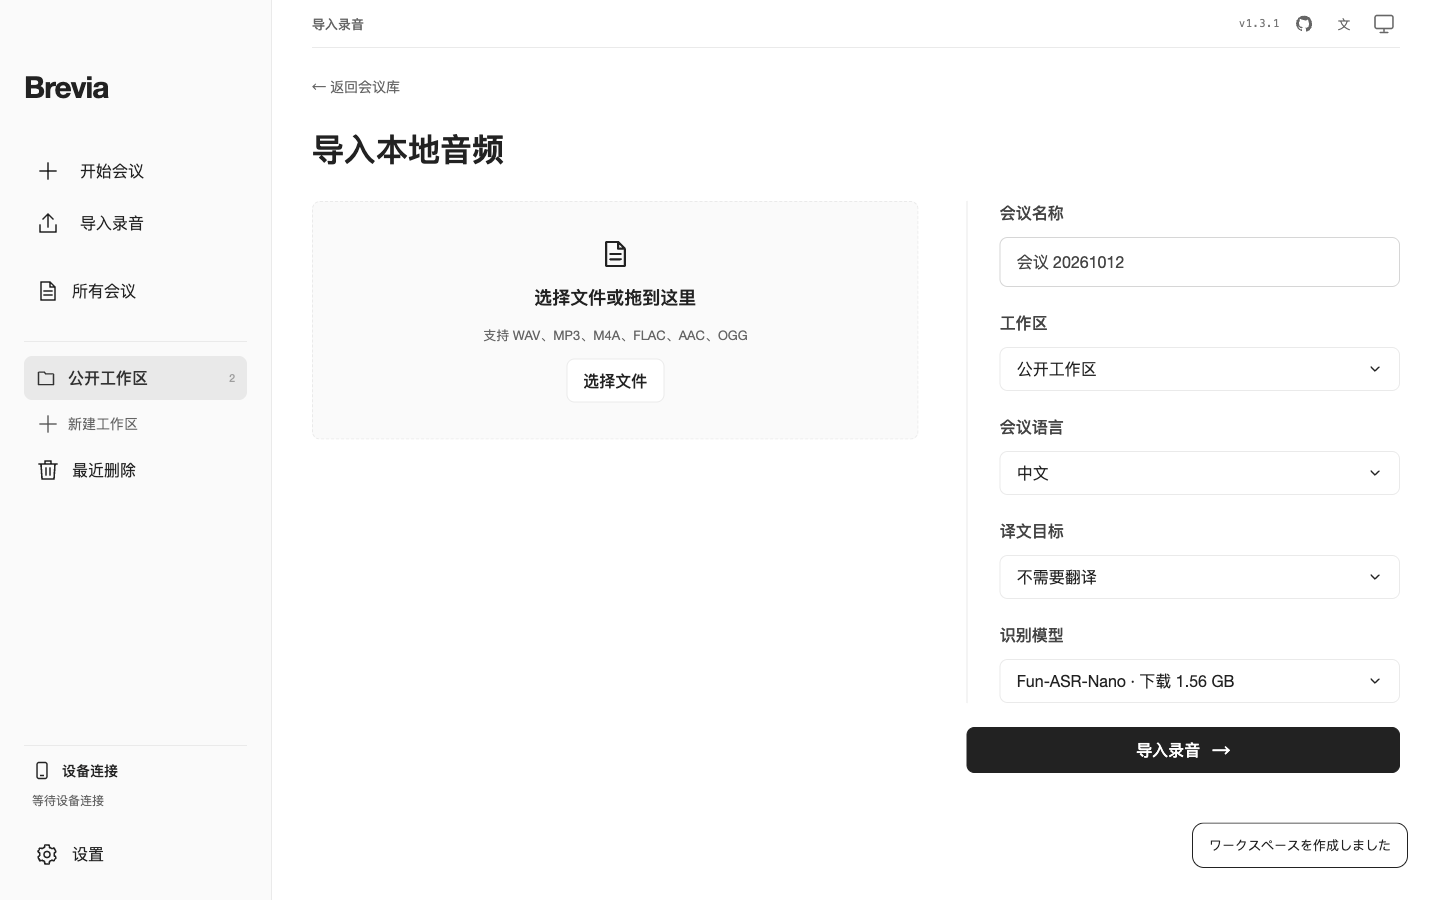
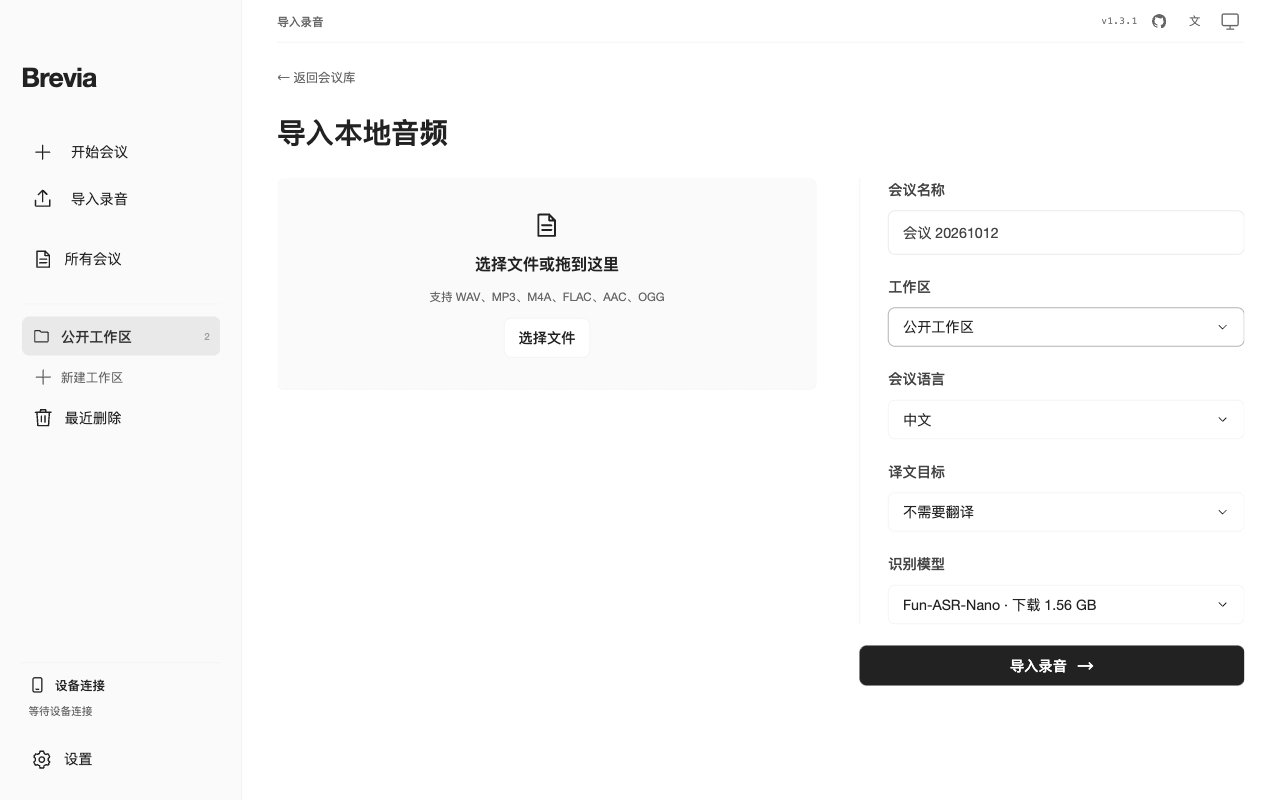
fix(ui): scale desktop proportionally to 1280 by 800

diff --git a/electron/main.js b/electron/main.js
@@ -2079,20 +2079,21 @@ function createWindow() {
   const appUrl = pathToFileURL(path.join(packagedRoot, 'frontend', 'index.html')).href;
   const { width, height } = screen.getPrimaryDisplay().workAreaSize;
   const window = new BrowserWindow({
-    width: Math.min(1440, width),
-    height: Math.min(900, height),
+    width: Math.min(1280, width),
+    height: Math.min(800, height),
     minWidth: 880,
     minHeight: 640,
     show: false,
     titleBarStyle: 'hiddenInset',
     webPreferences: {
       preload: path.join(__dirname, 'preload.js'),
+      // 与 1440×900 设计稿按相同比例缩小，页面重载后仍保持一致。
+      zoomFactor: 1280 / 1440,
       contextIsolation: true,
       nodeIntegration: false,
       sandbox: true,
     },
   });
-  window.webContents.setZoomFactor(1);
   const openExternal = (url) => {
     if (/^https?:\/\//i.test(url)) void shell.openExternal(url);
   };

diff --git a/docs/redesign-2026-10-12/implementation.md b/docs/redesign-2026-10-12/implementation.md
@@ -4,7 +4,7 @@
 
 ## 实现约束
 
-- 桌面默认 1440×900，超出显示器可用区时适配；缩放 100%。常规侧栏 272px，仅实时会议自动收起到 64px，悬停或键盘焦点进入时恢复。详情页保持完整侧栏。
+- 桌面默认 1280×800，超出显示器可用区时适配；源画布 1440×900 的字体、图标、控件与间距统一缩放 8/9（约 88.9%）。侧栏源尺寸为 272px，仅实时会议自动收起到 64px，显示尺寸约 242px / 57px；悬停或键盘焦点进入时恢复。详情页保持完整侧栏。
 - 桌面图标由 `interfaceIcon` 集中提供；主要页面布局由 `design-layout.css` 管理，业务控制器沿用原有事件、服务和数据。`styles.css` 仅通过 `npm run build` 生成。
 - 手机主题、引导、录音控制及配对示意分别拥有自己的组件。原生录音按钮为暂停/继续、重点、结束三个图标，具有可访问名称。语言与外观使用连续二级页面。
 - 保留 8 种语言、具体模型多选及现有模型队列。手机录音来源标识独立于处理状态；实时转写不呈现说话人姓名和头像，八语演示文案同步修正；会后身份能力保留。
@@ -19,11 +19,11 @@
 - `npm run build`、`npm run format:check`、`git diff --check`。
 - `dart format --output=none --set-exit-if-changed lib test`、`flutter analyze`、`flutter test`：44 项，另有默认跳过的截图导出用例。
 - 显式启用 `BREVIA_MOBILE_CAPTURE_DIR` 的 Flutter 截图用例：1 项，导出 13 个实际组件页面，并检查没有布局异常。使用本机系统字体，仅在启用时加载，不影响 CI。
-- E2E 同时验证八语言选择、AI 设置独立保存、真实手机配对、五步演示导航、工作区重复提交与保护焦点。桌面小窗口及手机 360 宽/1.4 倍文字检查保留。
+- E2E 同时验证八语言选择、AI 设置独立保存、真实手机配对、五步演示导航、工作区重复提交与保护焦点；默认 1280×800 / 88.9% 缩放在重载及开关独立字幕窗口后保持。桌面小窗口及手机 360 宽/1.4 倍文字检查保留。
 
 ## 截图对照
 
-[implementation](implementation/) 内保存实际渲染图：26 个桌面场景、13 个 Flutter 场景。桌面画布为 1440×900，手机为 390×844 逻辑尺寸（PNG 为两倍采样）。数据来自隔离的测试目录及明确的组件样例，包含模型已安装等状态；相同页面的数据和开关状态会改变内容，不以生成图中的示例值作为接口常量。
+[implementation](implementation/) 内保存实际渲染图：26 个桌面场景、13 个 Flutter 场景。桌面按实际默认 1280×800 窗口导出，手机为 390×844 逻辑尺寸（PNG 为两倍采样）。数据来自隔离的测试目录及明确的组件样例，包含模型已安装等状态；相同页面的数据和开关状态会改变内容，不以生成图中的示例值作为接口常量。
 
 桌面几何记录见 [measurements.json](implementation/measurements.json)，所有导出场景均未发现页面横向溢出。应用截图不伪造原生标题栏、系统状态栏或权限系统页面。
 

diff --git a/docs/redesign-2026-10-12/README.md b/docs/redesign-2026-10-12/README.md
@@ -4,6 +4,8 @@
 
 覆盖范围已确认：桌面端与手机端全部页面。“左右风格”按桌面左导航、右内容设计。共 50 张有效画板：35 张桌面画板、15 张手机流程画板。D35 替代 D21 功能演示，M15 补全 M02 的实际准备字段。会议、人物、时间、配对码、容量和进度均为示例。图中的布局与状态供评审，精确功能边界、文案与尺寸以 [设计规范](design-specification.md) 为准。
 
+桌面画板保留 1440×900 的源尺寸，应用默认按 8/9 等比例显示为 1280×800，字号、控件、图标与间距一起缩小。实际页面对照已按此默认窗口更新，手机画板与显示比例不变。
+
 ## 第二轮修订
 
 已按反馈修订 12 张既有画板，新增 3 张任务与侧栏状态画板。
